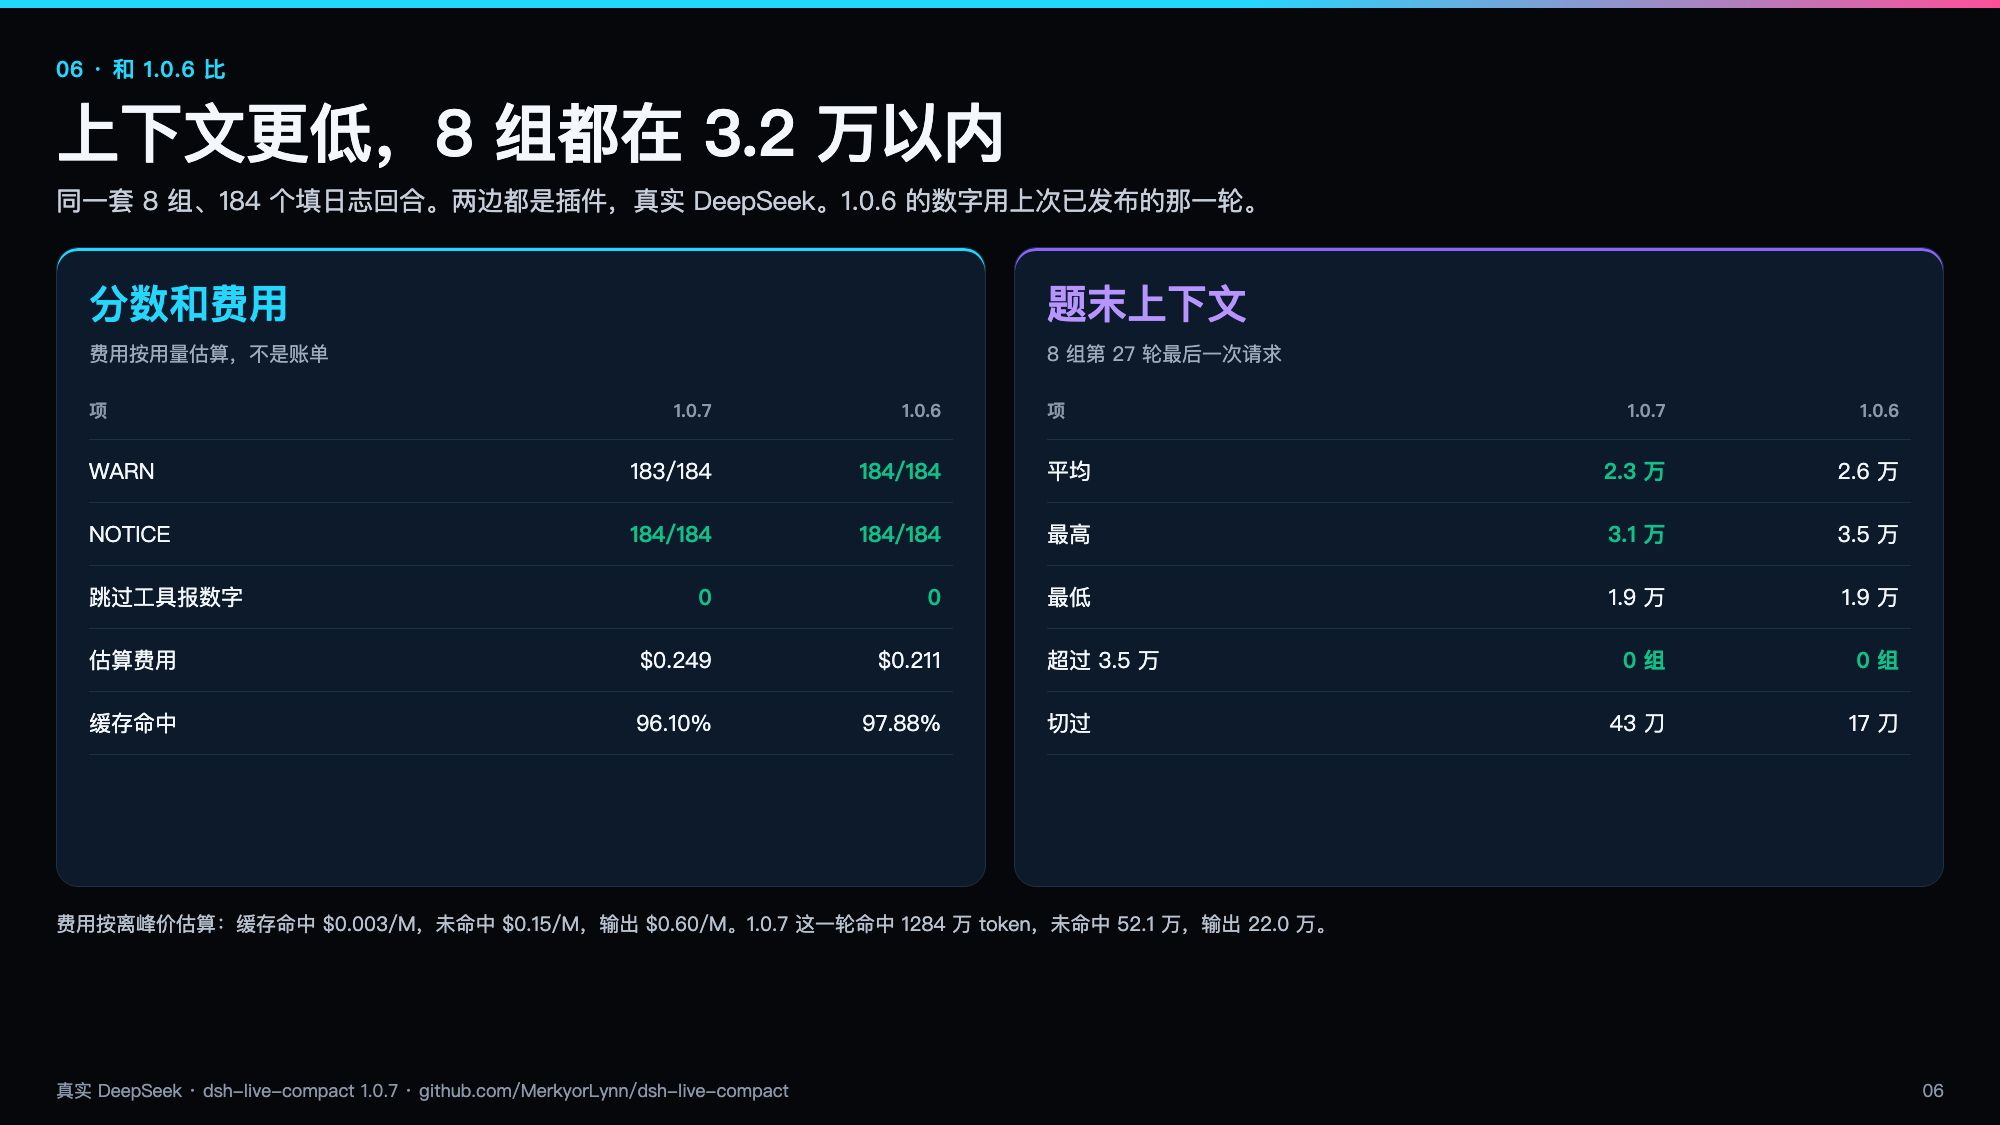
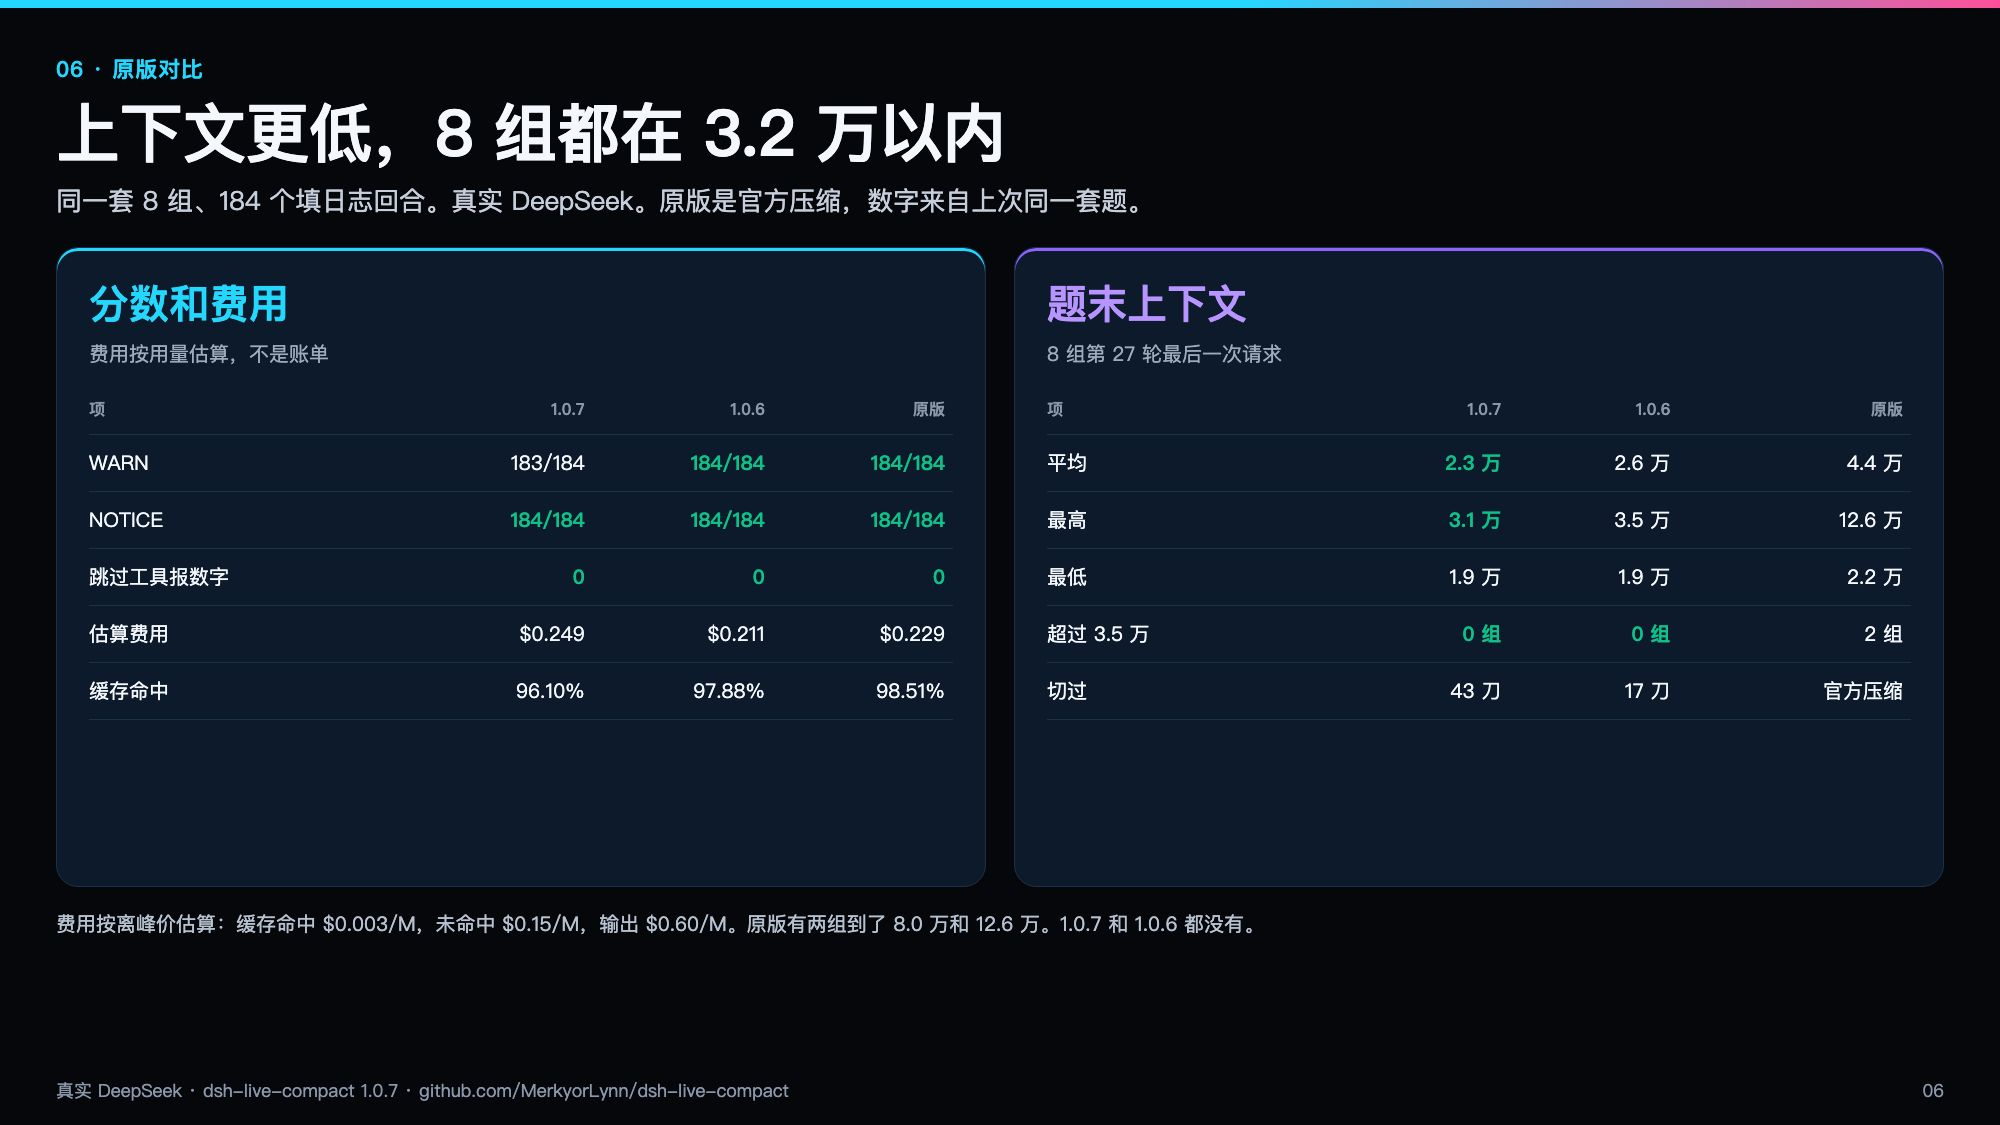
Add the stock column to the 1.0.7 comparison slide.
The numbers are from the same eight-session harness already published for 1.0.6.

diff --git a/README.md b/README.md
@@ -100,7 +100,7 @@ dsh-live-compact --version
 
 ![1.0.7 长填日志](docs/slide-107-fill.jpg)
 
-和已发布的 1.0.6 同一套题比：跳过工具都是 0。费用按离峰用量估算，1.0.7 是 $0.249，1.0.6 是 $0.211，不是账单。缓存命中 96.10%，上一轮 1.0.6 是 97.88%。题末上下文 1.0.7 平均 2.3 万、最高 3.1 万、最低 1.9 万，8 组都在 3.2 万以内。1.0.6 平均 2.6 万、最高 3.5 万。65 万停切线没动。
+和已发布的 1.0.6、以及上次同一套题的官方压缩比。跳过工具都是 0。费用按离峰用量估算，1.0.7 是 $0.249，1.0.6 是 $0.211，原版是 $0.229，不是账单。缓存命中 1.0.7 是 96.10%，1.0.6 是 97.88%，原版是 98.51%。题末上下文 1.0.7 平均 2.3 万、最高 3.1 万、最低 1.9 万，8 组都在 3.2 万以内。1.0.6 平均 2.6 万、最高 3.5 万。原版平均 4.4 万、最高 12.6 万，有两组到了 8.0 万和 12.6 万。65 万停切线没动。
 
 ![和 1.0.6 比](docs/slide-107-vs106.jpg)
 
